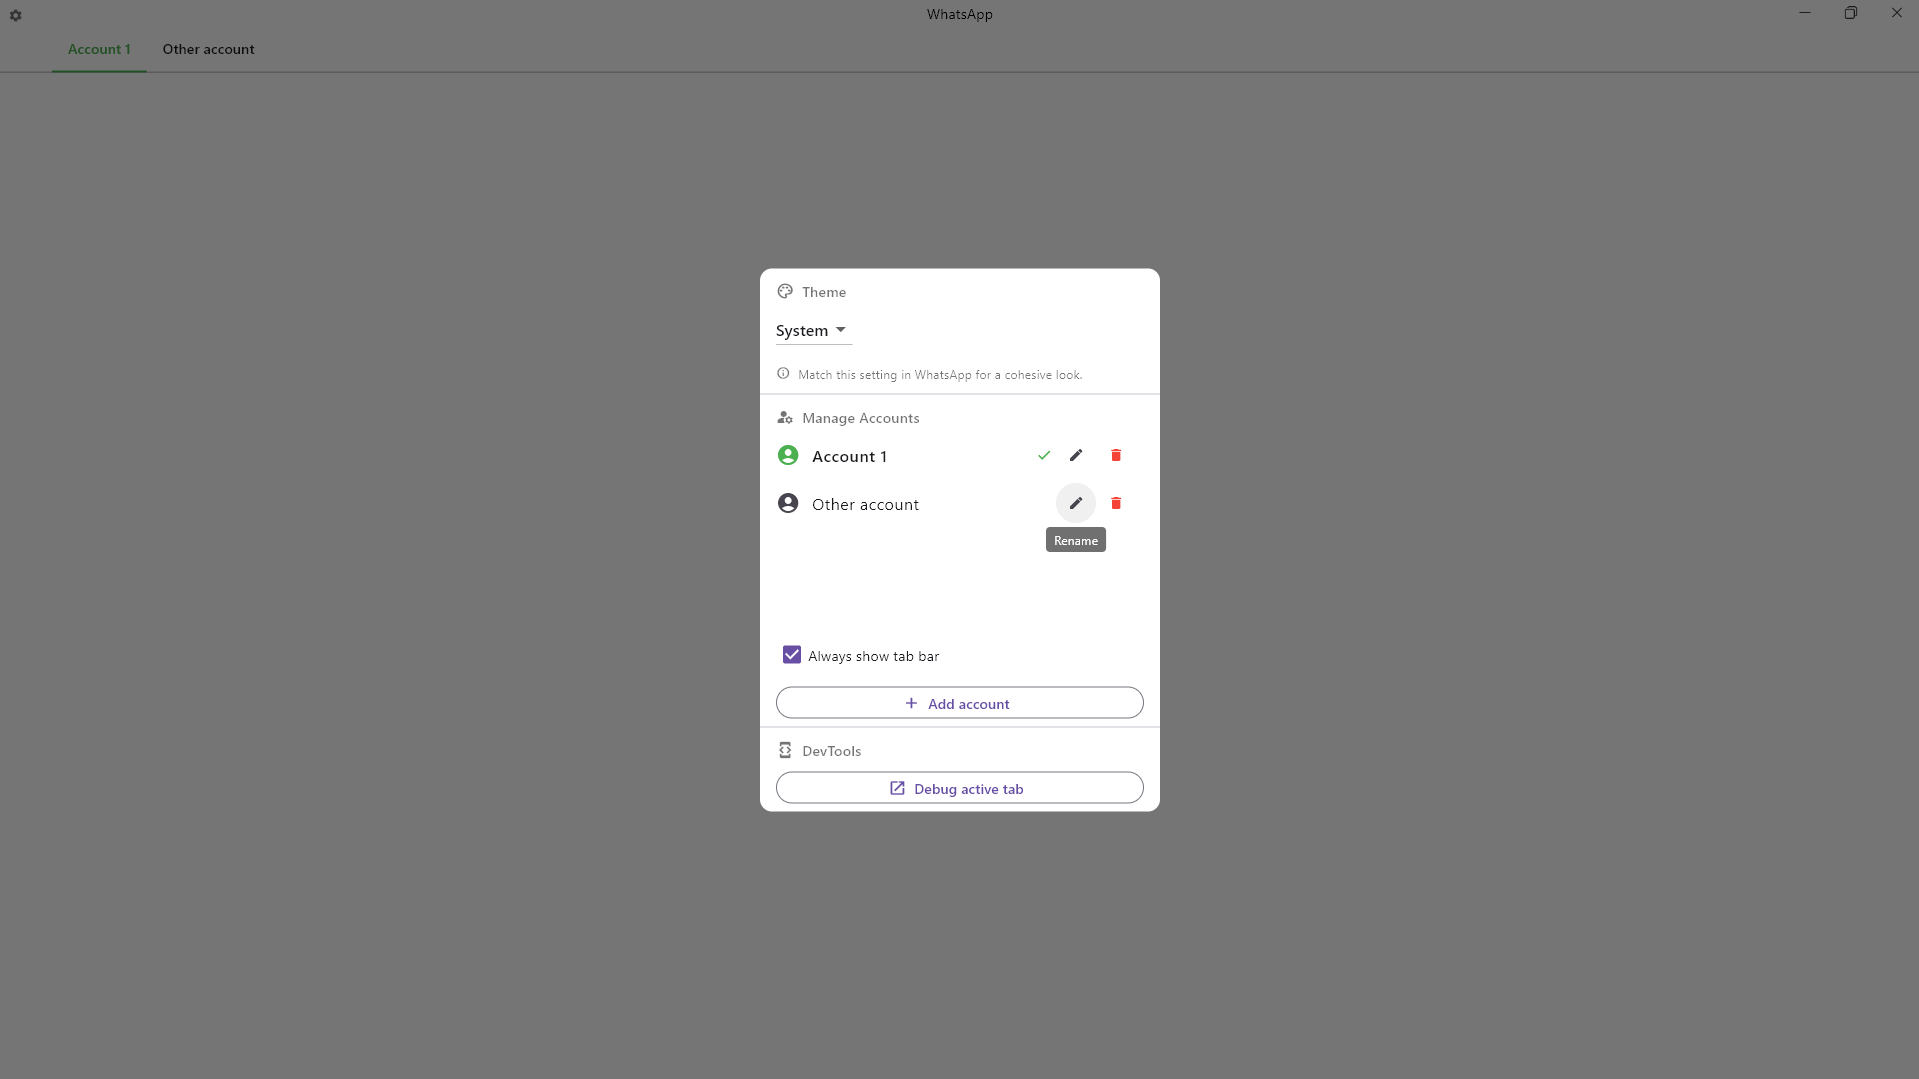
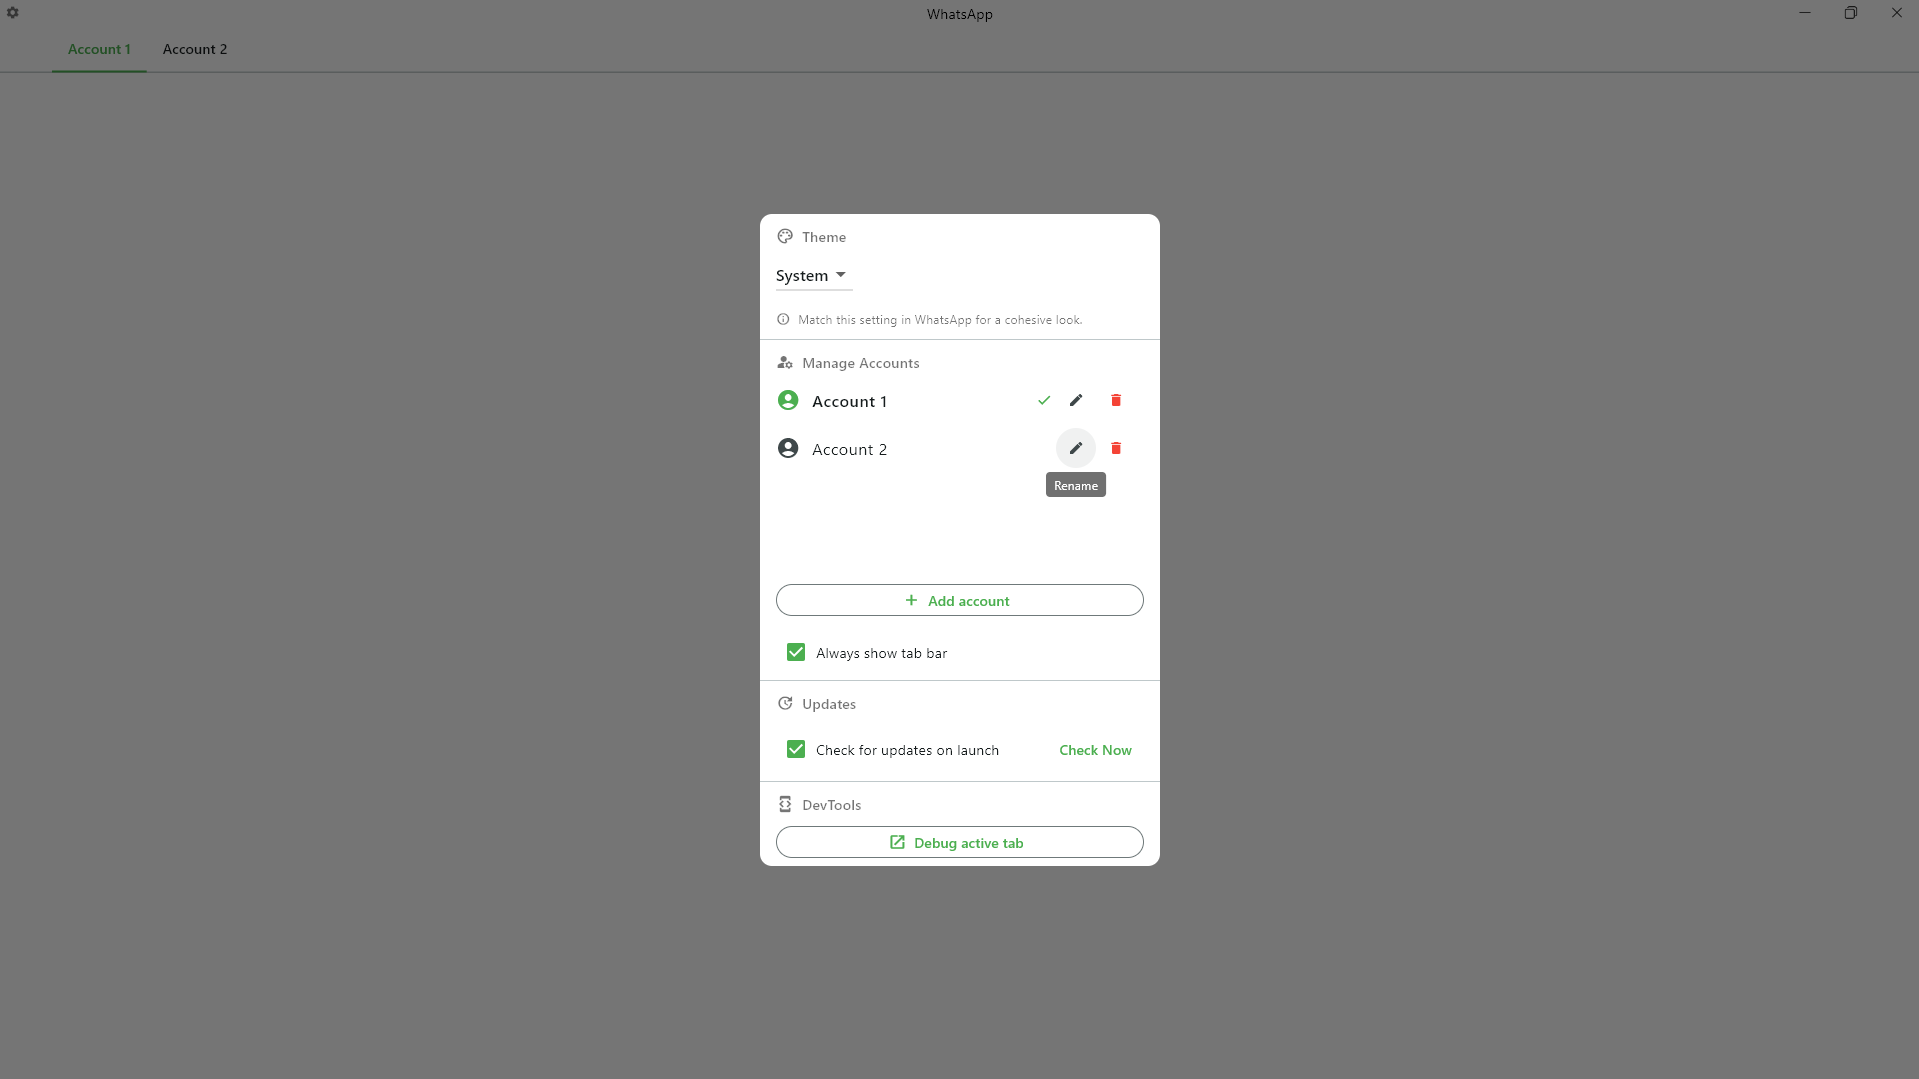
:memo: docs: docs & screenshots

diff --git a/WhatsApp/lib/model/account.dart b/WhatsApp/lib/model/account.dart
@@ -107,11 +107,13 @@ class WhatsAppAccount {
 
           if (type == 'NOTIFICATION_RECEIVED') {
             hasNotification = true;
-            debugPrint('Notification received on account $id: ${data['title']}');
+            debugPrint(
+                'Notification received on account $id: ${data['title']}');
             onNotificationChanged?.call(id, true);
           } else if (type == 'NOTIFICATION_CLOSED') {
             hasNotification = remainingCount > 0;
-            debugPrint('Notification closed on account $id, remaining: $remainingCount');
+            debugPrint(
+                'Notification closed on account $id, remaining: $remainingCount');
             onNotificationChanged?.call(id, hasNotification);
           } else if (type == 'NOTIFICATION_CLICKED') {
             debugPrint('Notification clicked on account $id');

diff --git a/WhatsApp/lib/constants.dart b/WhatsApp/lib/constants.dart
@@ -112,9 +112,6 @@ String fillScreen = """
 """;
 
 String removeDownloadForWindows = """
-  "div:has(a[href*=\\"whatsapp.com/download\\"]), div:has(a[href*=\\"microsoft.com/store\\"]) {" +
-      "display: none !important;" +
-  "}"+
   "section[data-testid=\\"intro-panel\\"] > :first-child {" +
       "display: none !important;" +
   "}"+

diff --git a/docs/docs.md b/docs/docs.md
@@ -1,0 +1,97 @@
+# Development & Publishing Documentation
+
+## 1. Cloning the Repository
+
+To start working on the project, clone the repository from GitHub and navigate to the project directory:
+
+```bash
+git clone https://github.com/Faeq-F/whatsappPortable.git
+cd whatsappPortable
+```
+
+## 2. Prerequisites & Development Setup
+
+Before building or running the application, ensure the following tools are installed:
+
+- Flutter SDK
+  - Since this is a Windows desktop application, Flutter requires Visual Studio for compilation:
+      - Install [Visual Studio 2022](https://visualstudio.microsoft.com/) (Community edition is sufficient).
+      - During installation, select the **Desktop development with C++** workload.
+      - Ensure the following components are checked:
+        - MSVC v143 build tools (or latest)
+        - Windows 10 SDK (or 11)
+        - CMake tools for Windows
+  - Run `flutter doctor` in your terminal to verify that Flutter is correctly installed and all requirements are met.
+
+### 2.4. WebView2 Runtime
+The [WebView2 Runtime](https://developer.microsoft.com/en-us/microsoft-edge/webview2/?form=MA13LH) is required ([preinstalled onto all Windows 11 devices and eligible Windows 10 devices](https://learn.microsoft.com/en-us/microsoft-edge/webview2/concepts/distribution?tabs=dotnetcsharp)).
+
+## 3. Building & Running
+
+All Flutter code is contained in the `WhatsApp` subfolder.
+
+### 3.1. Install Dependencies
+Navigate to the `WhatsApp` folder and fetch the package dependencies:
+
+```powershell
+cd WhatsApp
+flutter pub get
+```
+
+### 3.2. Running in Development Mode
+To launch the app with hot reload enabled for debugging:
+
+```powershell
+flutter run -d windows
+```
+
+### 3.3. Building the Release Executable
+To compile a fully optimized release build:
+
+```powershell
+flutter build windows
+```
+
+## 4. Portability, Packaging & Publishing
+
+### 4.1. Understanding the Build Output
+The release build is generated in the following directory:
+`WhatsApp/build/windows/x64/runner/Release/`
+
+### 4.2. Portability Concept
+All user settings and active sessions are stored locally in the application folder:
+- **Settings**: Saved to `settings.json` in the current working directory.
+- **WebView2 User Profiles**: Saved to `data/webview/EBWebView/WV2Profile_<accountId>` in the current working directory.
+
+This allows the application folder to be moved (e.g., to a USB drive) while fully preserving the user's logged-in accounts and configuration.
+
+### 4.3. Folder Icon Customization (`desktop.ini`)
+To give the portable application folder its customized WhatsApp icon, a `desktop.ini` configuration is used:
+1. Ensure a copy of the `desktop.ini` file is placed directly in your release distribution folder.
+2. Open a terminal and assign the **system** attribute to the `desktop.ini` file:
+   ```cmd
+   attrib +s desktop.ini
+   ```
+3. Assign the **system** attribute to the release folder itself. This is critical because Windows ignores `desktop.ini` inside directories unless the directory itself is marked as a system folder:
+   ```cmd
+   attrib +s "path\to\your\release_folder"
+   ```
+
+### 4.4. Publishing Checklist
+Before releasing a new version, complete the following steps:
+1. **Update Version Numbers**:
+   - In the root folder: Update the version string in the [Version](../Version) file.
+   - In `WhatsApp/pubspec.yaml`: Update the `version` property.
+   - In `WhatsApp/lib/constants.dart`: Update the `appVersion` constant.
+2. **Documentation**:
+   - Check this file and the [README.md](../README.md) file for any updates to add.
+   - Update the [CHANGELOG.md](../CHANGELOG.md) file with the new release notes.
+   - Update any screenshots in the documentation.
+
+### 4.5. Creating the Portable Archive
+To ensure Windows preserves the system attribute of both the `desktop.ini` file and the release folder, **do not** use the built-in Windows compression utility, as it strips these attributes.
+- Use a utility like **7-Zip** or **PeaZip** to compress the release folder.
+- Package the contents into an archive named **`WhatsApp.zip`**.
+
+### 4.6. GitHub Release
+ - Create the new release, adding the portable archive in the release assets.

diff --git a/README.md b/README.md
@@ -1,7 +1,8 @@
 # A portable desktop WhatsApp application
 
 Not endorsed or affiliated with WhatsApp.<br />
-Written in Flutter using the [webview_win_floating](https://pub.dev/packages/webview_win_floating) package.
+Written in Flutter using the [webview_win_floating](https://pub.dev/packages/webview_win_floating) package.<br />
+To build the app, see [development and publishing documentation](docs/docs.md).
 
 The [WebView2 Runtime](https://developer.microsoft.com/en-us/microsoft-edge/webview2/?form=MA13LH) is required ([preinstalled onto all Windows 11 devices and eligible Windows 10 devices](https://learn.microsoft.com/en-us/microsoft-edge/webview2/concepts/distribution?tabs=dotnetcsharp)).
 
@@ -24,10 +25,6 @@ The [WebView2 Runtime](https://developer.microsoft.com/en-us/microsoft-edge/webv
 
 ![App Screenshot - settings dialog showing multiple accounts](https://raw.githubusercontent.com/Faeq-F/whatsappPortable/main/docs/WhatsappPortable-MultipleAccounts.png)
 
-![App Screenshot - settings dialog (light mode)](https://raw.githubusercontent.com/Faeq-F/whatsappPortable/main/docs/WhatsappPortable-Settings.png)
+![App Screenshot - update check dialog (light mode)](https://raw.githubusercontent.com/Faeq-F/whatsappPortable/main/docs/WhatsappPortable-UpToDate.png)
 
-![App Screenshot - settings dialog (dark mode)](https://raw.githubusercontent.com/Faeq-F/whatsappPortable/main/docs/WhatsappPortable-SettingsDark.png)
-
-### Why?
-
-I use a Gecko-based browser, the kind that WhatsApp Web seems to have a lot of trouble working with. I do not want to use other browsers and do not wish to use an installed desktop app. Other portable applications like [WhatsApp™ portable from portapps](https://portapps.io/app/whatsapp-portable/) have known [issues](https://github.com/portapps/whatsapp-portable/issues/64), preventing them from being useable.
+![App Screenshot - update check dialog (dark mode)](https://raw.githubusercontent.com/Faeq-F/whatsappPortable/main/docs/WhatsappPortable-UpToDate-Dark.png)